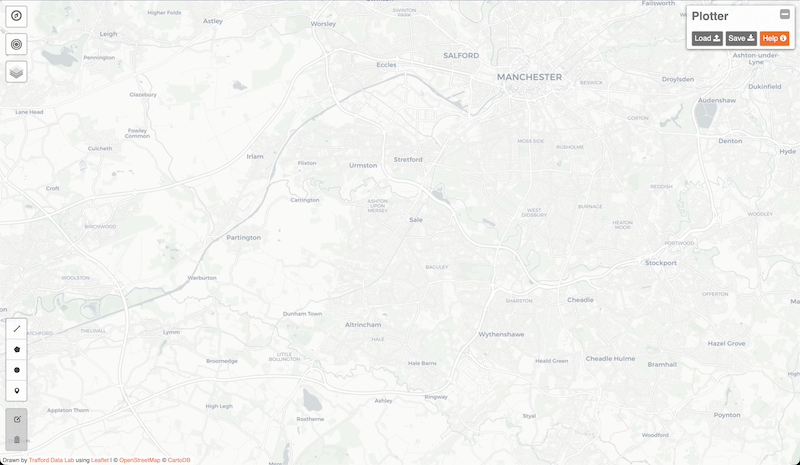
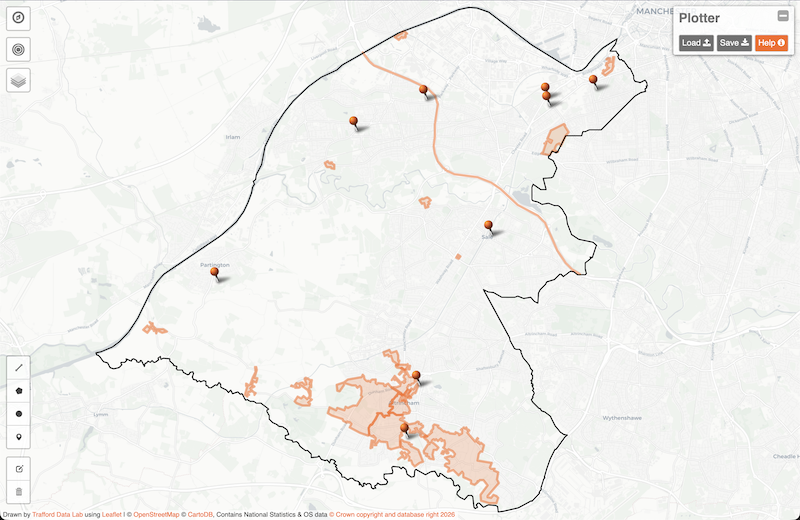
Documentation updates. Added new demonstration and moved this section below the introduction. Improved some of the text content, images and accessibility features.

diff --git a/documentation.html b/documentation.html
@@ -52,6 +52,40 @@
                 border: 1px solid #ccc;
                 box-shadow: 0 0 0;
             }
+            
+            .demoImgContainer
+            {
+                position: relative;
+                display: inline-block;
+                float: left;
+                margin-right: 1em;
+            }
+            
+            .demoImgText
+            {
+                position: absolute;
+                top: 0.1em;
+                right: 0.25em;
+                color: #fc6721;
+                font-size: 3em;
+                font-weight: bold;
+            }
+            
+            .noFloat
+            {
+                padding-top: 1em;
+                clear: both;
+            }
+            
+            .backToTop
+            {
+                color: #5d77a3;
+            }
+            
+            .backToTop:hover
+            {
+                color: #00445e;
+            }
         </style>
     </head>
     <body>
@@ -65,44 +99,97 @@
                     <a href="https://www.trafforddatalab.io/index.html" aria-label="Return to Trafford Data Lab home page"><img src="https://www.trafforddatalab.io/assets/logo/trafforddatalab_logo.svg" alt="Trafford Data Lab" width="93" border="0" class="traffordDataLabLogo"/></a>
                 </nav>
             </header>
+            
+             <a id="top">&nbsp;</a>
 
             <main id="main">
                 <h1>Plotter documentation</h1>
                 <img src="docs_images/initial_load.png" width="450" alt="Initial load of application" class="screenshot" style="width: 450px; float: right; margin: 7px 0 0 15px;"/>
                 <ul>
                     <li><a href="#intro">Introduction</a></li>
+                    <li><a href="#demo">Demonstrations</a></li>
                     <li><a href="#familiar">Familiarisation</a></li>
                     <li><a href="#drawedit">Drawing and editing</a></li>
                     <li><a href="#load">Loading data</a></li>
                     <li><a href="#save">Saving data</a></li>
-                    <li><a href="#demo">Demonstrations</a></li>
                     <li><a href="#credits">Credits</a></li>
                 </ul>
                 <br />
                 
                 <a name="intro"></a><h2>Introduction</h2>
                 <p>
-                    <a href="index.html">Plotter</a> is a web application running in the browser. It allows you to create and edit map features in the form of lines, polygons, circles* and markers and save the results as a <a href="http://geojson.org/" target="_blank">GeoJSON</a> file. The saved file is downloaded to your device - there is no data saved in the cloud etc. Previously saved files can also be loaded back for further editing. These facilities are a very simplified form of those found in <a href="https://en.wikipedia.org/wiki/Geographic_information_system" target="_blank">Geographical Information Systems (GIS)</a>. Files saved by this application can be loaded into GIS applications for further editing.
+                    Plotter is a web application (app) running in the browser. It allows you to create and edit map features in the form of lines, polygons, <a href="#circles">circles</a> and markers and save the results as a <a href="http://geojson.org/">GeoJSON</a> file. The saved file is downloaded to your device - there is no data saved in the cloud etc. Previously saved files can also be loaded back for further editing. These facilities are a very simplified form of those found in <a href="https://en.wikipedia.org/wiki/Geographic_information_system">Geographical Information Systems (GIS)</a>. Files saved by this application can be loaded into GIS applications for further editing.
                 </p>
                 
                 <p>
                     Spatially referenced vector data represent different features on the surface of the earth as discrete points, lines, and polygons. Points represent discrete locations (e.g. CCTV cameras, bus stops), lines represent linear features (e.g. street, rivers), and polygons represent areas (e.g. borough boundaries, lakes). These features are overlayed on top of a base map - a representation of the world drawn to various scales which helps the viewer orientate and understand where those features are located.
                 </p>
 
+                <h3><a name="circles">Circles</a></h3>
                 <p class="italic">
-                    * The <a href="http://geojson.org/" target="_blank">GeoJSON</a> specification does not contain representations for circles. However, as circles can be useful to show buffers around places etc. we have decided to include them in this app. They are represented in the GeoJSON as a point with the radius stored as a property value. If you load GeoJSON created by this app which contains circles into other apps, they will be represented by a standard point located at the centre of the circles.
+                    The GeoJSON specification does not contain representations for circles. However, as circles can be useful to show buffers around places etc. we have decided to include them in this app. They are represented in the GeoJSON as a point with the radius stored as a property value. If you load GeoJSON created by this app which contains circles into other apps, they will be represented by a standard point located at the centre of the circles.
                 </p>
+                <a href="#top" class="backToTop"><span aria-label="return to the top of the page" class="fa-solid fa-circle-up"></span><span class="hideContent" aria-hidden="true">[Top]</span></a>
+                <br />
+                
+                <a name="demo"></a><h2>Demonstrations</h2>
+                <p>
+                    To give a quick idea of what you can do with Plotter, the following demonstrates drawing a polygon:
+                </p>
+                <div>
+                    <div class="demoImgContainer">
+                        <img src="docs_images/draw_poly_demo1.png" alt="Step 1: Selecting the draw polygon icon in the toolbar" class="screenshot"/>
+                        <div class="demoImgText">1</div>
+                    </div>
+                    
+                    Select the draw polygon icon from the toolbar in the bottom-left corner of the screen. This is the second icon from the top of the toolbar which shows a five-sided shape filled in black. You will then be asked to choose a point on the map to begin drawing your polygon.
+                </div>
+                <div class="noFloat">
+                    <div class="demoImgContainer">
+                        <img src="docs_images/draw_poly_demo2.png" alt="Step 2: Choosing a point on the map to start drawing the polygon" class="screenshot"/>
+                        <div class="demoImgText">2</div>
+                    </div>
+                    
+                    After you have created the starting point you will then be asked to choose the next one. A dotted line between the first point and the cursor indicates where the line will be drawn. If you make a mistake you can use the &quot;Delete last point&quot; button in the toolbar, or &quot;Cancel&quot; to delete the whole shape.
+                </div>
+                <div class="noFloat">
+                    <div class="demoImgContainer">
+                        <img src="docs_images/draw_poly_demo3.png" alt="Step 3: Selecting further points on the map to create the shape" class="screenshot"/>
+                        <div class="demoImgText">3</div>
+                    </div>
+                    
+                    You then continue in the same way to draw your shape. Each time you choose a point on the map, an orange line is drawn to it from the previous point. The shape is also filled with a lighter orange colour. Once you have drawn three points the cursor message changes, informing you to complete the shape by selecting the first point. You can either do this or continue adding more points.
+                </div>
+                <div class="noFloat">
+                    <div class="demoImgContainer">
+                        <img src="docs_images/draw_poly_demo4.png" alt="Step 4: Selecting the first point again to complete the polygon" class="screenshot"/>
+                        <div class="demoImgText">4</div>
+                    </div>
+                    
+                    When you are ready to complete the shape either select the first point or the &quot;Finish&quot; button in the toolbar. The squares marking the individual points and the toolbar buttons will then disappear. You will then be asked if you want to label the shape you have drawn.
+                </div>
+                <br class="noFloat"/><br />
+                <p>
+                    Other demonstrations are available via the following short animations which open in new windows:
+                    <ul>
+                        <li><a href="docs_images/loading_demo.gif" target="_blank">Loading data via <abbr >URL</abbr> <em>(Uniform Resource Locator)</em></a></li>
+                        <li><a href="docs_images/buffer_demo.gif" target="_blank">Drawing a buffer</a></li>
+                        <li><a href="docs_images/marker_demo.gif" target="_blank">Creating a marker</a></li>
+                        <li><a href="docs_images/edit_demo.gif" target="_blank">Editing features</a></li>
+                    </ul>
+                </p>
+                <a href="#top" class="backToTop"><span aria-label="return to the top of the page" class="fa-solid fa-circle-up"></span><span class="hideContent" aria-hidden="true">[Top]</span></a>
                 <br />
 
                 <a name="familiar"></a><h2>Familiarisation</h2>
                 <p>
-                    When the application loads, the base map displayed is low detail grey-scale which highlights town and city names, initially positioned to show the borough of Trafford. (To further assist with orientation of this particular area, the boundary of each of the ten Local Authorities which make up the Greater Manchester region has been provided as an overlay layer which can be toggled on/off using the layer control show in the diagram below.<br /><span class="italic">NOTE: Although this is an example of a map feature, the layer is not editable as it is provided simply as a guide and will not appear in the output saved from the app.)</span>
+                    When Plotter loads, the base map displayed is low detail grey-scale which highlights town and city names, initially positioned to show the borough of Trafford. To further assist with orientation of this particular area, the boundary of Trafford, its localities and wards and each of the ten Local Authorities which make up the Greater Manchester region have been provided as overlay layers which can be toggled on/off using the layer control show in the diagram below.<br /><span class="italic">(NOTE: Although this is an example of a map feature, the layer is not editable as it is provided simply as a guide and will not appear in the output saved from the app.)</span>
                 </p>
                 <p>
-                    The top-left corner contains the map controls. The first zooms the map to your approximate location if you have a capable device and allow this feature (i.e. you will be asked if you are happy to share your location). The second item is a tool to show areas of reachability based on time or distance for different modes of travel using the <a href="https://openrouteservice.org/documentation/#/reference/isochrones" target="_blank">openrouteservice isochrones API</a>. You can find out more about reachability in our Medium article <a href="https://medium.com/@traffordDataLab/out-of-reach-introducing-our-distance-and-travel-time-plugin-859932cb12e5" target="_blank">&quot;Out of reach? Introducing our distance and travel time plugin&quot;</a>. Although this tool draws features on the map, they are not savable or editable like the ones you can create using the draw tools. This is because they are calculated features based on travel networks such as roads, footpaths etc. and so cannot be editable.
+                    The top-left corner contains the map controls. The first zooms the map to your approximate location if you have a capable device and allow this feature (i.e. you will be asked if you are happy to share your location). The second item is a tool to show areas of reachability based on time or distance for different modes of travel using the <a href="https://openrouteservice.org/documentation/#/reference/isochrones">openrouteservice isochrones API</a>. You can find out more about reachability in our Medium article <a href="https://medium.com/@traffordDataLab/out-of-reach-introducing-our-distance-and-travel-time-plugin-859932cb12e5">&quot;Out of reach? Introducing our distance and travel time plugin&quot;</a>. Although this tool draws features on the map, they are not savable or editable like the ones you can create using the draw tools. This is because they are calculated features based on travel networks such as roads, footpaths etc. and so cannot be editable.
                 </p>
                 <p>
-                    <img src="docs_images/layer_control.png" alt="Layer control" class="screenshot" style="float: left; margin: 7px 15px 0 0;"/>The third item is the layer control which allows you choose the map layers you wish to see. Selecting this control will reveal a choice of base maps giving different types of information and area details as well as the option to hide or show the Local Authority boundaries and name labels. The choice of base maps includes a satellite view and the option to not display a base map at all. The choices you make within the layer control do not affect the map features you create or the data saved by the application.
+                    <img src="docs_images/layer_control.png" alt="Layer control" class="screenshot" style="float: left; margin: 7px 15px 0 0;"/>The third item is the layer control which allows you choose the map layers you wish to see. Selecting this control will reveal a choice of base maps giving different types of information and area details as well as the option to hide or show the Local Authority boundaries and name labels. The choice of base maps includes a satellite view and the option to not display a base map at all. The choices you make within the layer control do not affect the map features you create or the data saved by Plotter.
                 </p>
                 <p>
                     The tools for drawing and editing map features are located in the bottom-left corner. The six buttons are split into two groups; the first four are the drawing tools - &quot;<span class="bold">line</span>&quot;, &quot;<span class="bold">polygon</span>&quot;, &quot;<span class="bold">circle</span>&quot; and &quot;<span class="bold">marker</span>&quot; whilst the last two are &quot;<span class="bold">edit</span>&quot; and &quot;<span class="bold">delete</span>&quot;.
@@ -113,6 +200,7 @@
                 <p>
                     You can zoom and move (pan) the map in a variety of ways depending on the device you are using. For mobile/touch devices you can zoom and pan by using the familiar pinch-to-zoom and touch-drag gestures. For desktop browsers you can zoom using the &plus; and &minus; keys, using a scroll wheel mouse, double-clicking on the map (zoom in)/holding shift while double-clicking (zoom out), click and drag a box (zoom in only) or via trackpad gestures on enabled devices. To pan on desktop browsers simply click and drag using either a mouse or trackpad.
                 </p>
+                <a href="#top" class="backToTop"><span aria-label="return to the top of the page" class="fa-solid fa-circle-up"></span><span class="hideContent" aria-hidden="true">[Top]</span></a>
                 <br />
 
                 <a name="drawedit"></a><h2>Drawing and editing</h2>
@@ -129,11 +217,20 @@
                 <p>
                     <img src="docs_images/delete.png" alt="Deleting features" class="screenshot" style="float: left; margin: 7px 15px 0 0;"/>You can also delete any unwanted features. Select the &quot;<span class="bold">delete</span>&quot; tool in the drawing toolbox and then select a feature to delete it, or choose the &quot;<span class="bold">Clear All</span>&quot; option to delete everything. Once you have removed the desired features you need to choose the &quot;<span class="bold">Save</span>&quot; button next to the delete tool. Again, it's important not to confuse this button with the main application <span class="labButton">Save <span class="fas fa-download"></span></span> button. If you change your mind about the features you have deleted, choosing the &quot;<span class="bold">Cancel</span>&quot; button will undo any changes.
                 </p>
+                <a href="#top" class="backToTop"><span aria-label="return to the top of the page" class="fa-solid fa-circle-up"></span><span class="hideContent" aria-hidden="true">[Top]</span></a>
                 <br />
 
                 <a name="load"></a><h2>Loading data</h2>
                 <p>
-                    The main application <span class="labButton">Load <span class="fas fa-upload"></span></span> button provides the ability to load GeoJSON data in three different ways: <br /><br />1. from your device or network, 2. via a URL or 3. by pasting the code directly into the box.<br /><br /> Either of these methods results in the map features represented in the file being drawn. The features are editable, just as if you had drawn them using the feature drawing tools. Most valid GeoJSON files can be loaded (with some exceptions due to size or complexity), not just those created using this application. If the data couldn't be loaded the application will try to inform you as to why.
+                    The main application <span class="labButton">Load <span class="fas fa-upload"></span></span> button provides the ability to load GeoJSON data in three different ways:
+                </p>
+                <ol>
+                    <li>from your device or network</li>
+                    <li>via a URL</li>
+                    <li>by pasting the code directly into the box</li>
+                </ol>
+                <p>
+                    Either of these methods results in the map features represented in the file being drawn. The features are editable, just as if you had drawn them using the feature drawing tools. Most valid GeoJSON files can be loaded (with some exceptions due to size or complexity), not just those created using this application. If the data couldn't be loaded the application will try to inform you as to why.
                 </p>
                 <p>
                     To load a GeoJSON file stored locally, (i.e. on the device or network you are connected to), select the <span class="labButton">Choose a file</span> option and then choose the file using the selection window.
@@ -144,15 +241,16 @@
                 <p>
                     To paste the GeoJSON code directly you will first need to open the file in any application that allows plain text content to be viewed, such as a text editor or even another another browser window/tab. Once you have the content of the file displayed, simply copy the whole content and paste it into the box provided in the <span class="labButton">Load <span class="fas fa-upload"></span></span> interface. Be sure to include the first &quot;<span class="bold">&#123;</span>&quot; and last &quot;<span class="bold">&#125;</span>&quot; characters otherwise you will receive an error message.
                 </p>
+                <a href="#top" class="backToTop"><span aria-label="return to the top of the page" class="fa-solid fa-circle-up"></span><span class="hideContent" aria-hidden="true">[Top]</span></a>
                 <br />
             
                 <a name="save"></a><h2>Saving data</h2>
                 <p>
                     The main application <span class="labButton">Save <span class="fas fa-download"></span></span> button creates a GeoJSON representation of the map features you have created (i.e. excluding the Local Authority boundaries and base map) and attempts to create a file named &quot;<span class="bold">user_map_data.geojson</span>&quot;. Depending on your operating system and web browser you will either; have the file automatically downloaded for you, be prompted for where you want to save the file, or see the contents of the file displayed in a new browser window/tab.
                 </p>
-                <h4>An example</h4>
+                <h3>An example</h3>
                 <p>
-                    The following is an example GeoJSON output from the application.
+                    The following is an example GeoJSON output from Plotter.
                 </p>
                 <p>
                     <span class="code">
@@ -180,14 +278,9 @@
                     </span>
                 </p>
                 <p>
-                    To load this data back into the application as a test follow these steps: <ol><li>copy the code above</li><li><a href="index.html" target="_blank">open the application</a></li><li>select <span class="labButton">Load <span class="fas fa-upload"></span></span></li><li>paste the code into the box provided</li><li>select <span class="bold">OK</span> to see the result on the map</li></ol>
+                    To load this data back into Plotter as a test follow these steps: <ol><li>copy the code above</li><li>select <span class="labButton">Load <span class="fas fa-upload"></span></span> within the Plotter app</li><li>paste the code into the box provided</li><li>select <span class="bold">OK</span> to see the result on the map</li></ol>
                 </p>
-                <br />
-
-                <a name="demo"></a><h2>Demonstrations</h2>
-                <p>
-                    <a href="docs_images/loading_demo.gif" target="_blank">Loading data via URL</a> | <a href="docs_images/buffer_demo.gif" target="_blank">Drawing a buffer</a> | <a href="docs_images/marker_demo.gif" target="_blank">Creating a marker</a> | <a href="docs_images/edit_demo.gif" target="_blank">Editing features</a>
-                </p>
+                <a href="#top" class="backToTop"><span aria-label="return to the top of the page" class="fa-solid fa-circle-up"></span><span class="hideContent" aria-hidden="true">[Top]</span></a>
                 <br />
 
                 <a name="credits"></a><h2>Credits</h2>
@@ -195,13 +288,14 @@
                     Plotter was created using the following:
                 </p>
                 <ul>
-                    <li><a href="http://leafletjs.com" target="_blank">Leaflet.js</a> - (C) Vladimir Agafonkin (<a href="https://github.com/Leaflet/Leaflet/blob/master/LICENSE" target="_blank">LICENCE</a>)</li>
-                    <li><a href="https://github.com/Leaflet/Leaflet.draw" target="_blank">Leaflet.Draw plugin</a> - (C) Jacob Toye (<a href="https://github.com/Leaflet/Leaflet.draw/blob/develop/MIT-LICENSE.md" target="_blank">LICENCE</a>)</li>
-                    <li><a href="https://github.com/domoritz/leaflet-locatecontrol" target="_blank">Leaflet.Locate plugin</a> - (C) Dominik Moritz (<a href="https://github.com/domoritz/leaflet-locatecontrol/blob/gh-pages/LICENSE" target="_blank">LICENCE</a>)</li>
-                    <li><a href="http://alertifyjs.com" target="_blank">Alertify.js</a> - (C) Mohammad Younes (<a href="https://opensource.org/licenses/gpl-3.0" target="_blank">LICENCE</a>)</li>
-                    <li><a href="https://fontawesome.com" target="_blank">Fontawesome</a> - (C) Fonticons, Inc. All rights reserved (<a href="https://fontawesome.com/license" target="_blank">LICENCE</a>)</li>
-                    <li>All other code by <a href="https://www.trafforddatalab.io" target="_blank">Trafford Data Lab</a> (<a href="https://github.com/traffordDataLab/plotter/blob/master/LICENSE" target="_blank">LICENCE</a>)</li>
+                    <li><a href="http://leafletjs.com">Leaflet.js</a> - (C) Vladimir Agafonkin (<a href="https://github.com/Leaflet/Leaflet/blob/master/LICENSE">Leaflet licence</a>)</li>
+                    <li><a href="https://github.com/Leaflet/Leaflet.draw">Leaflet.Draw plugin</a> - (C) Jacob Toye (<a href="https://github.com/Leaflet/Leaflet.draw/blob/develop/MIT-LICENSE.md">Leaflet.Draw licence</a>)</li>
+                    <li><a href="https://github.com/domoritz/leaflet-locatecontrol">Leaflet.Locate plugin</a> - (C) Dominik Moritz (<a href="https://github.com/domoritz/leaflet-locatecontrol?tab=MIT-1-ov-file">Leaflet.Locate licence</a>)</li>
+                    <li><a href="http://alertifyjs.com">Alertify.js</a> - (C) Mohammad Younes (<a href="https://opensource.org/licenses/gpl-3.0">Alertify licence</a>)</li>
+                    <li><a href="https://fontawesome.com">Fontawesome</a> - (C) Fonticons, Inc. All rights reserved (<a href="https://fontawesome.com/license">Fontawesome licence</a>)</li>
+                    <li>All other code by <a href="https://www.trafforddatalab.io">Trafford Data Lab</a> (<a href="https://github.com/traffordDataLab/plotter/blob/master/LICENSE">Plotter licence</a>)</li>
                 </ul>
+                <a href="#top" class="backToTop"><span aria-label="return to the top of the page" class="fa-solid fa-circle-up"></span><span class="hideContent" aria-hidden="true">[Top]</span></a>
             </main>
 
             <footer id="footer">